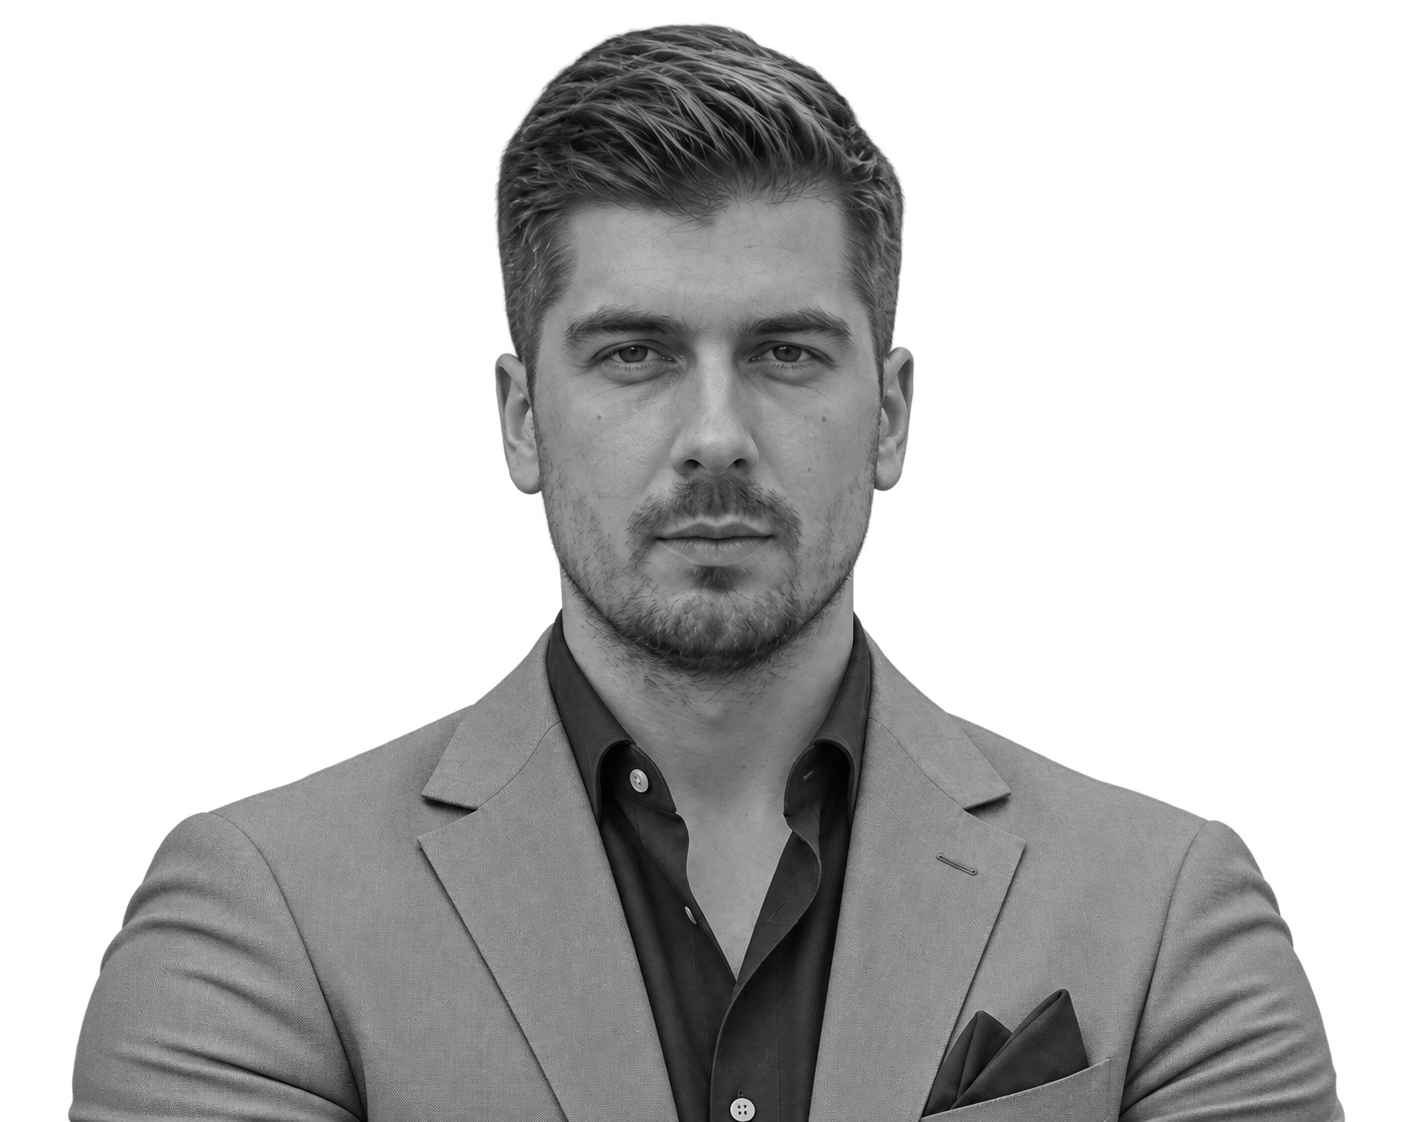
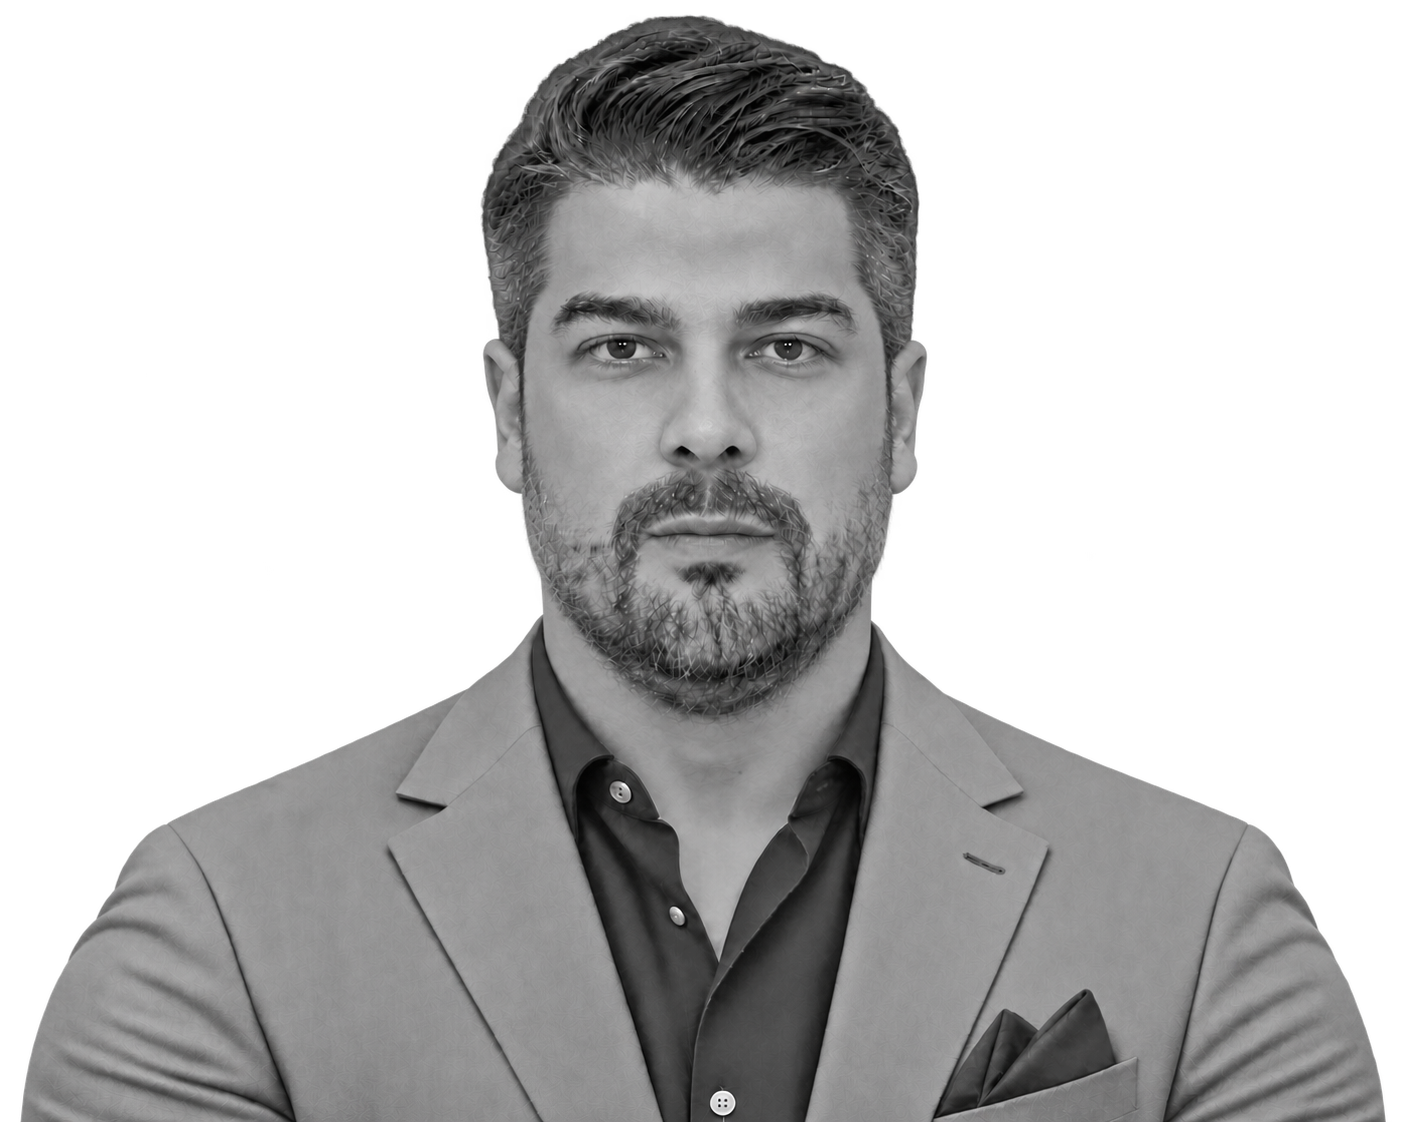
feat(site): update founder profile and portrait

Changed region(s): [[0.0, 0.0, 0.6748, 1.0], [0.6441, 0.6239, 1.0, 1.0], [0.1534, 0.6863, 0.2147, 0.7175]]

diff --git a/src/styles/global.css b/src/styles/global.css
@@ -215,8 +215,7 @@ a:hover .arrow {
 }
 .hero {
   position: relative;
-  height: min(760px, calc(100svh - 112px));
-  min-height: 620px;
+  min-height: clamp(620px, calc(100svh - 112px), 760px);
   isolation: isolate;
   border-bottom: 1px solid var(--line);
   overflow: hidden;
@@ -245,12 +244,10 @@ a:hover .arrow {
 .hero-intro a {
   pointer-events: auto;
 }
-.hero-facts {
-  display: flex;
-  gap: 64px;
-  margin-bottom: 30px;
+.hero-experience {
+  margin-bottom: 22px;
 }
-.hero-facts strong {
+.hero-experience strong {
   display: block;
   font-family: Georgia, serif;
   font-style: italic;
@@ -259,28 +256,19 @@ a:hover .arrow {
   letter-spacing: -0.075em;
   font-weight: 400;
 }
-.hero-facts .fact-arrow {
-  display: inline;
-  font-family: "Helvetica Neue", Arial, sans-serif;
-  font-style: normal;
-  font-weight: 300;
-  font-size: 0.45em;
-  vertical-align: 0.15em;
-  margin: 0 0.1em;
-}
-.hero-facts > div > span {
+.hero-experience > span {
   font-size: 11px;
   color: var(--muted);
   display: block;
   margin-top: 8px;
 }
 .hero h1 {
-  font-size: clamp(130px, 15.8vw, 232px);
+  font-size: clamp(120px, 13vw, 200px);
   line-height: 0.93;
   letter-spacing: -0.09em;
   font-weight: 300;
   margin-left: -12px;
-  margin-bottom: 28px;
+  margin-bottom: 20px;
 }
 .hero h1 > span {
   font-family: Georgia, serif;
@@ -288,9 +276,23 @@ a:hover .arrow {
   font-size: 0.8em;
 }
 .hero-subtitle {
-  font-size: clamp(20px, 2.1vw, 29px);
+  max-width: 415px;
+  font-size: clamp(20px, 1.9vw, 27px);
   line-height: 1.32;
-  letter-spacing: -0.045em;
+  letter-spacing: -0.035em;
+  margin-bottom: 12px;
+}
+.hero-approach {
+  max-width: 390px;
+  font-size: 14px;
+  line-height: 1.55;
+  margin-bottom: 12px;
+}
+.hero-skills {
+  max-width: 390px;
+  color: var(--muted);
+  font-size: 12px;
+  line-height: 1.6;
   margin-bottom: 22px;
 }
 .hero-portrait {
@@ -359,6 +361,26 @@ a:hover .arrow {
 }
 .intro-details p {
   max-width: 350px;
+}
+.intro-details p + p {
+  margin-top: 12px;
+}
+.intro-details h3 {
+  color: var(--ink);
+  font-size: 17px;
+  margin-bottom: 10px;
+}
+.experience-stack {
+  display: grid;
+  gap: 10px;
+  margin: 0;
+}
+.experience-stack dt {
+  color: var(--ink);
+  font-weight: 600;
+}
+.experience-stack dd {
+  margin: 2px 0 0;
 }
 .work-section,
 .journal-section {
@@ -1024,16 +1046,10 @@ a:hover .arrow {
 }
 @media (min-width: 1600px) {
   .hero {
-    height: 780px;
+    min-height: 780px;
   }
   .hero-intro {
     padding-top: 65px;
-  }
-  .hero-facts {
-    margin-bottom: 50px;
-  }
-  .hero h1 {
-    font-size: 245px;
   }
 }
 @media (max-width: 1100px) {
@@ -1043,21 +1059,17 @@ a:hover .arrow {
     width: calc(100% - 72px);
   }
   .hero {
-    height: 650px;
-    min-height: 600px;
+    min-height: 650px;
   }
   .hero-intro {
     padding-left: 48px;
-  }
-  .hero-facts {
-    gap: 30px;
   }
   .hero-portrait {
     width: 58%;
     right: 0;
   }
   .hero h1 {
-    font-size: 175px;
+    font-size: clamp(112px, 15vw, 160px);
   }
   .hero-subtitle {
     font-size: 24px;
@@ -1158,9 +1170,7 @@ a:hover .arrow {
     display: none;
   }
   .hero {
-    min-height: 665px;
-    height: calc(100svh - 86px);
-    max-height: 800px;
+    min-height: 0;
   }
   .hero-rail {
     display: none;
@@ -1169,15 +1179,14 @@ a:hover .arrow {
     padding: 25px 0 0 4px;
     width: 100%;
   }
-  .hero-facts {
-    gap: 32px;
-    margin-bottom: 28px;
+  .hero-experience {
+    margin-bottom: 18px;
   }
-  .hero-facts strong {
+  .hero-experience strong {
     font-size: 48px;
   }
-  .hero-facts > div > span {
-    font-size: 9px;
+  .hero-experience > span {
+    font-size: 11px;
     margin-top: 3px;
   }
   .hero h1 {
@@ -1189,7 +1198,7 @@ a:hover .arrow {
   .hero-subtitle {
     font-size: 21px;
     line-height: 1.28;
-    max-width: 205px;
+    max-width: 350px;
   }
   .hero-intro .underlined {
     font-size: 12px;
@@ -1197,19 +1206,18 @@ a:hover .arrow {
     margin-top: 0;
   }
   .hero-portrait {
+    position: relative;
+    display: block;
     width: 100%;
+    max-width: 500px;
     height: auto;
-    right: 0;
-    bottom: 52px;
-    object-position: center bottom;
-    z-index: 0;
+    bottom: auto;
+    margin: 18px auto 0;
   }
   .hero-bottom {
+    position: relative;
     height: 52px;
     font-size: 9px;
-  }
-  .hero-bottom > span:last-child {
-    display: none;
   }
   .hero-bottom > a {
     gap: 12px;
@@ -1224,9 +1232,6 @@ a:hover .arrow {
   .intro-section h2 {
     font-size: 30px;
     line-height: 1.2;
-  }
-  .intro-section h2 br {
-    display: none;
   }
   .intro-details {
     grid-template-columns: 1fr;
@@ -1564,15 +1569,8 @@ a:hover .arrow {
   }
 }
 @media (max-width: 390px) {
-  .hero {
-    min-height: 650px;
-  }
   .hero h1 {
     font-size: 114px;
-  }
-  .hero-portrait {
-    right: 0;
-    height: auto;
   }
   .hero-subtitle {
     font-size: 20px;

diff --git a/src/pages/index.tsx b/src/pages/index.tsx
@@ -9,26 +9,46 @@ const IndexPage = ({ data }: { data: IndexPageData }) => (
   <Layout>
     <Hero />
     <section className="intro-section">
-      <SectionLabel number="01">A little context</SectionLabel>
+      <SectionLabel number="01">Experience</SectionLabel>
       <div>
-        <h2>
-          I connect the dots between
-          <br />
-          an idea and the real world.
-        </h2>
+        <h2>Give me a startup idea and I’ll play the business forward in my head.</h2>
         <div className="intro-details">
-          <p>
-            Product thinking, software engineering, and the systems underneath. I like understanding
-            the whole picture — and getting my hands into the details.
-          </p>
-          <p>
-            Today, that energy goes into{' '}
-            <Link to="/projects/atlarius/" className="inline-link">
-              Atlarius
-            </Link>
-            : a native workspace for teams. This is a collection of what I’m building, what I’ve
-            learned, and what’s on my mind.
-          </p>
+          <div>
+            <p>
+              Who pays first? Why would that customer switch to our product? Where do we find
+              the next hundred customers? And if things go well, how much will it cost us to
+              serve each new customer?
+            </p>
+            <p>
+              I learned to think this way by building startups. I launched my first startup in
+              2008. I turned twenty that same year. Since then, I’ve built ventures of my own and
+              led engineering as CTO for other founders.
+            </p>
+            <p>
+              I’m a software architect. Building startups meant learning to read the numbers,
+              develop an eye for what makes a product feel right, and decide where the team
+              should spend the next few months. That experience changed how I design software.
+              I think about how customers will use it and whether the company can build, sell,
+              and support it. Today, I make those decisions at Atlarius.
+            </p>
+          </div>
+          <div>
+            <h3>Technologies I work with</h3>
+            <dl className="experience-stack">
+              <div>
+                <dt>Web</dt>
+                <dd>TypeScript, React, Next.js</dd>
+              </div>
+              <div>
+                <dt>Backend & data</dt>
+                <dd>Rust, Node.js, Ruby, PostgreSQL</dd>
+              </div>
+              <div>
+                <dt>Infrastructure</dt>
+                <dd>Docker, Kubernetes, Terraform, CI/CD</dd>
+              </div>
+            </dl>
+          </div>
         </div>
       </div>
     </section>
@@ -59,7 +79,7 @@ export const Head = () => (
   <PageHead
     title="Andrew Zhuk — Founder & Software Architect"
     pathname="/"
-    description="Founder of Atlarius. Software and systems architect. Building products, connecting ideas, and sharing notes from the work."
+    description="Founder of Atlarius and hands-on software architect with 15+ years in engineering. Building startups since 2008 as a founder and CTO."
   />
 )
 export const query = graphql`

diff --git a/src/components/hero/index.tsx b/src/components/hero/index.tsx
@@ -3,30 +3,25 @@ import { Link } from 'gatsby'
 import { Arrow } from '../editorial'
 const Hero = () => (
   <section className="hero" aria-label="Introduction">
-    <div className="hero-rail">
+    <div className="hero-rail" aria-hidden="true">
       <span>Personal website</span>
-      <span>Product. People. Possibilities.</span>
     </div>
     <div className="hero-intro">
-      <div className="hero-facts">
-        <div>
-          <strong>15+</strong>
-          <span>Years in engineering</span>
-        </div>
-        <div>
-          <strong aria-label="From zero to one">
-            0<span className="fact-arrow" aria-hidden="true">→</span>1
-          </strong>
-          <span>Ideas into products</span>
-        </div>
+      <div className="hero-experience">
+        <strong>15+</strong>
+        <span>Years in software engineering</span>
       </div>
       <h1>
         Hello<span>.</span>
       </h1>
       <p className="hero-subtitle">
-        I’m Andrew — a founder
-        <br />
-        who builds.
+        I’m Andrew Zhuk, founder of Atlarius and a software architect.
+      </p>
+      <p className="hero-approach">
+        I’ve spent my career building startups, as a founder and as a CTO.
+      </p>
+      <p className="hero-skills">
+        Rapid prototyping · Systems architecture · Distributed systems
       </p>
       <Link className="underlined" to="/about/">
         A little about me <Arrow />
@@ -45,7 +40,6 @@ const Hero = () => (
       <a href="#selected-work">
         Discover my work <span aria-hidden="true">↓</span>
       </a>
-      <span>Software & systems architecture</span>
     </div>
   </section>
 )

diff --git a/src/components/editorial.tsx b/src/components/editorial.tsx
@@ -62,8 +62,8 @@ export const AtlariusTile = () => (
       <span className="micro">Current focus / Founder & CEO</span>
       <h3>Atlarius</h3>
       <p>
-        A native workspace.
-        <br />A more connected way to work.
+        A native Mac workspace where technical teams can work with infrastructure and talk
+        to each other in the same app.
       </p>
       <Link className="underlined" to="/projects/atlarius/">
         Explore the project <Arrow />
